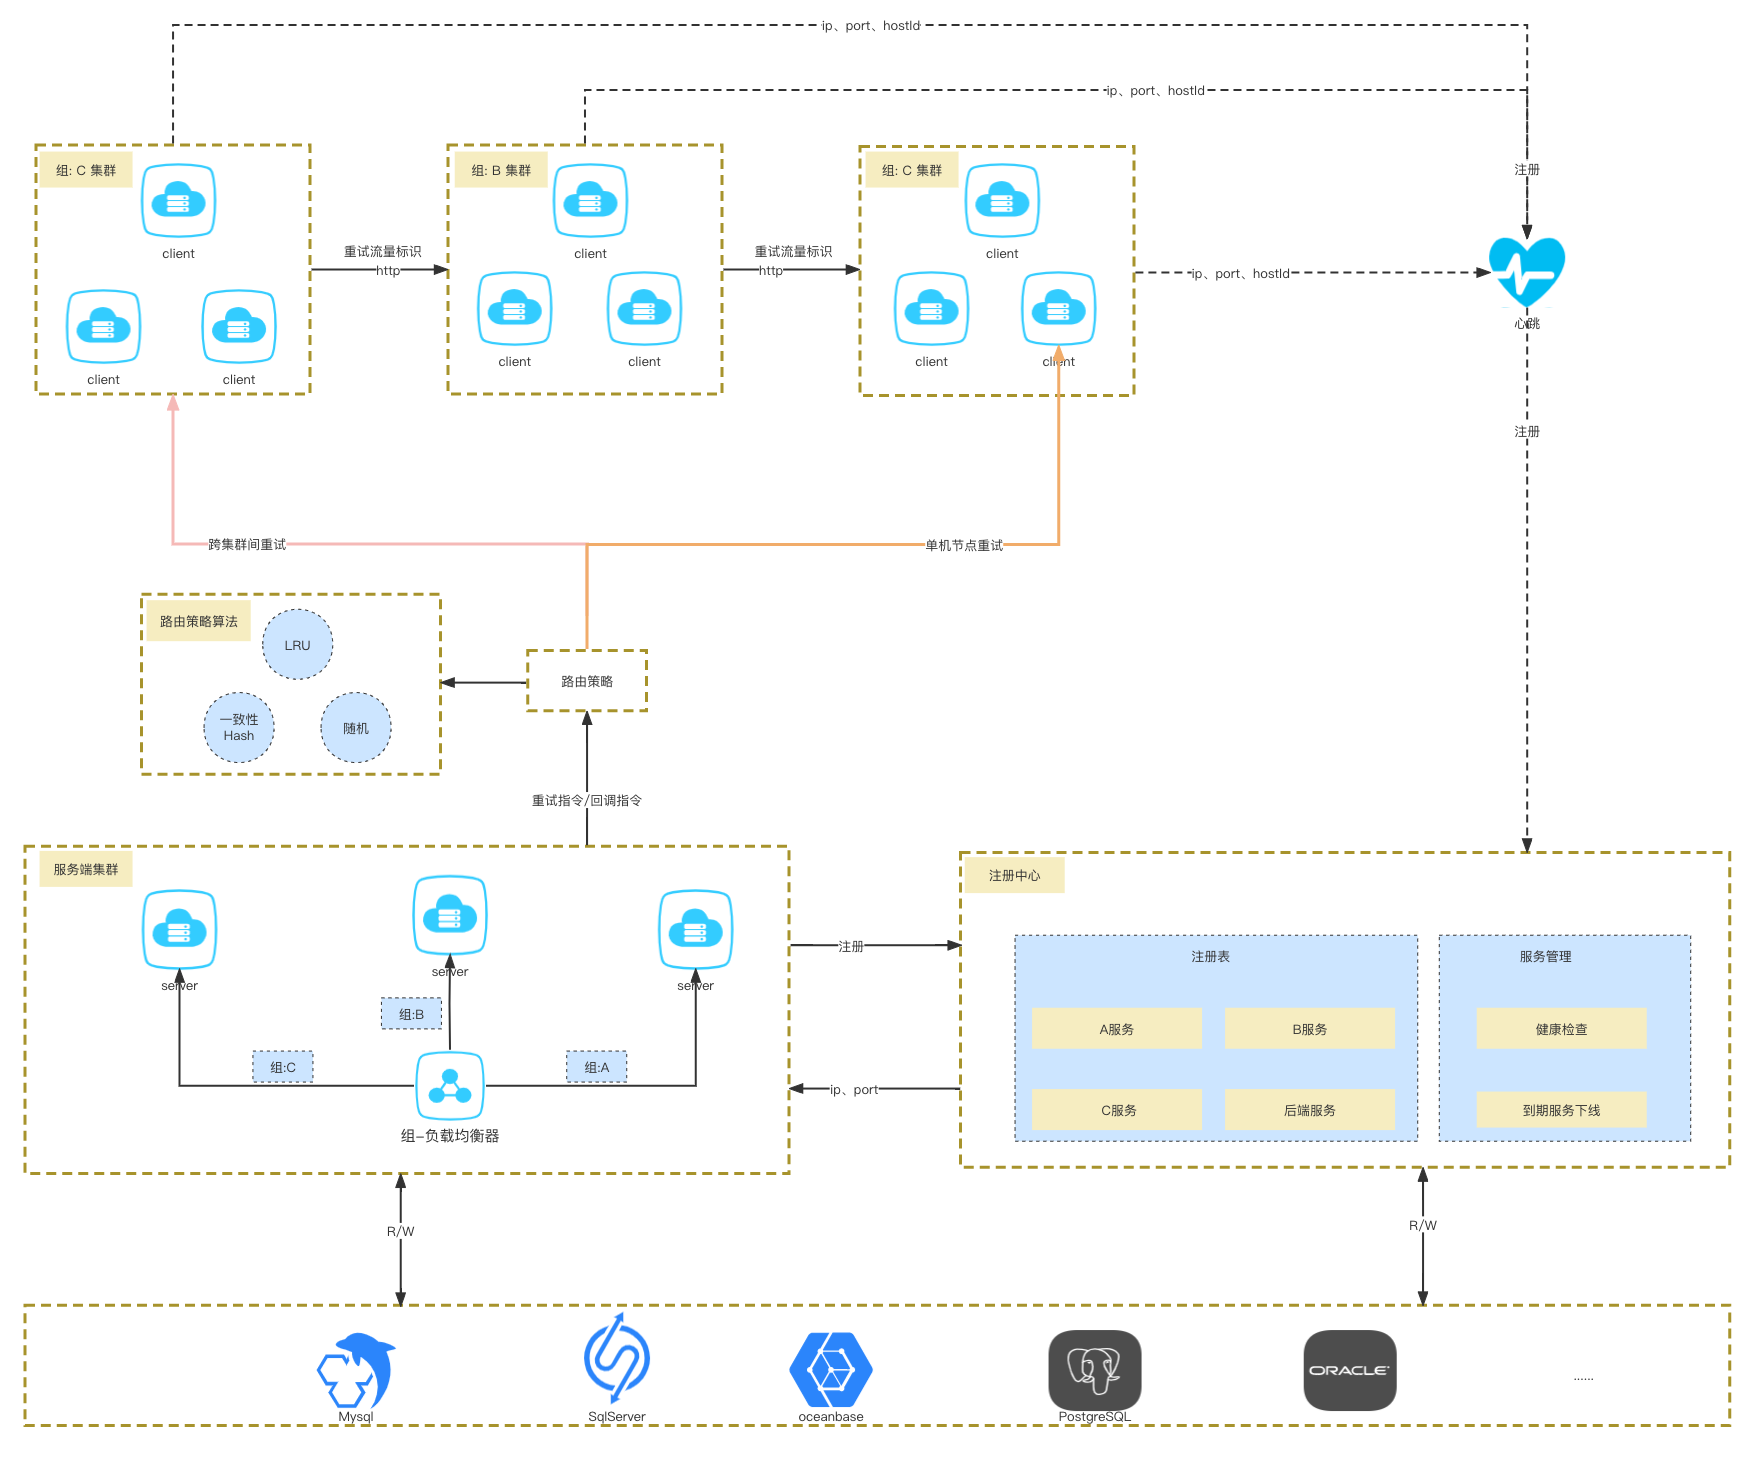
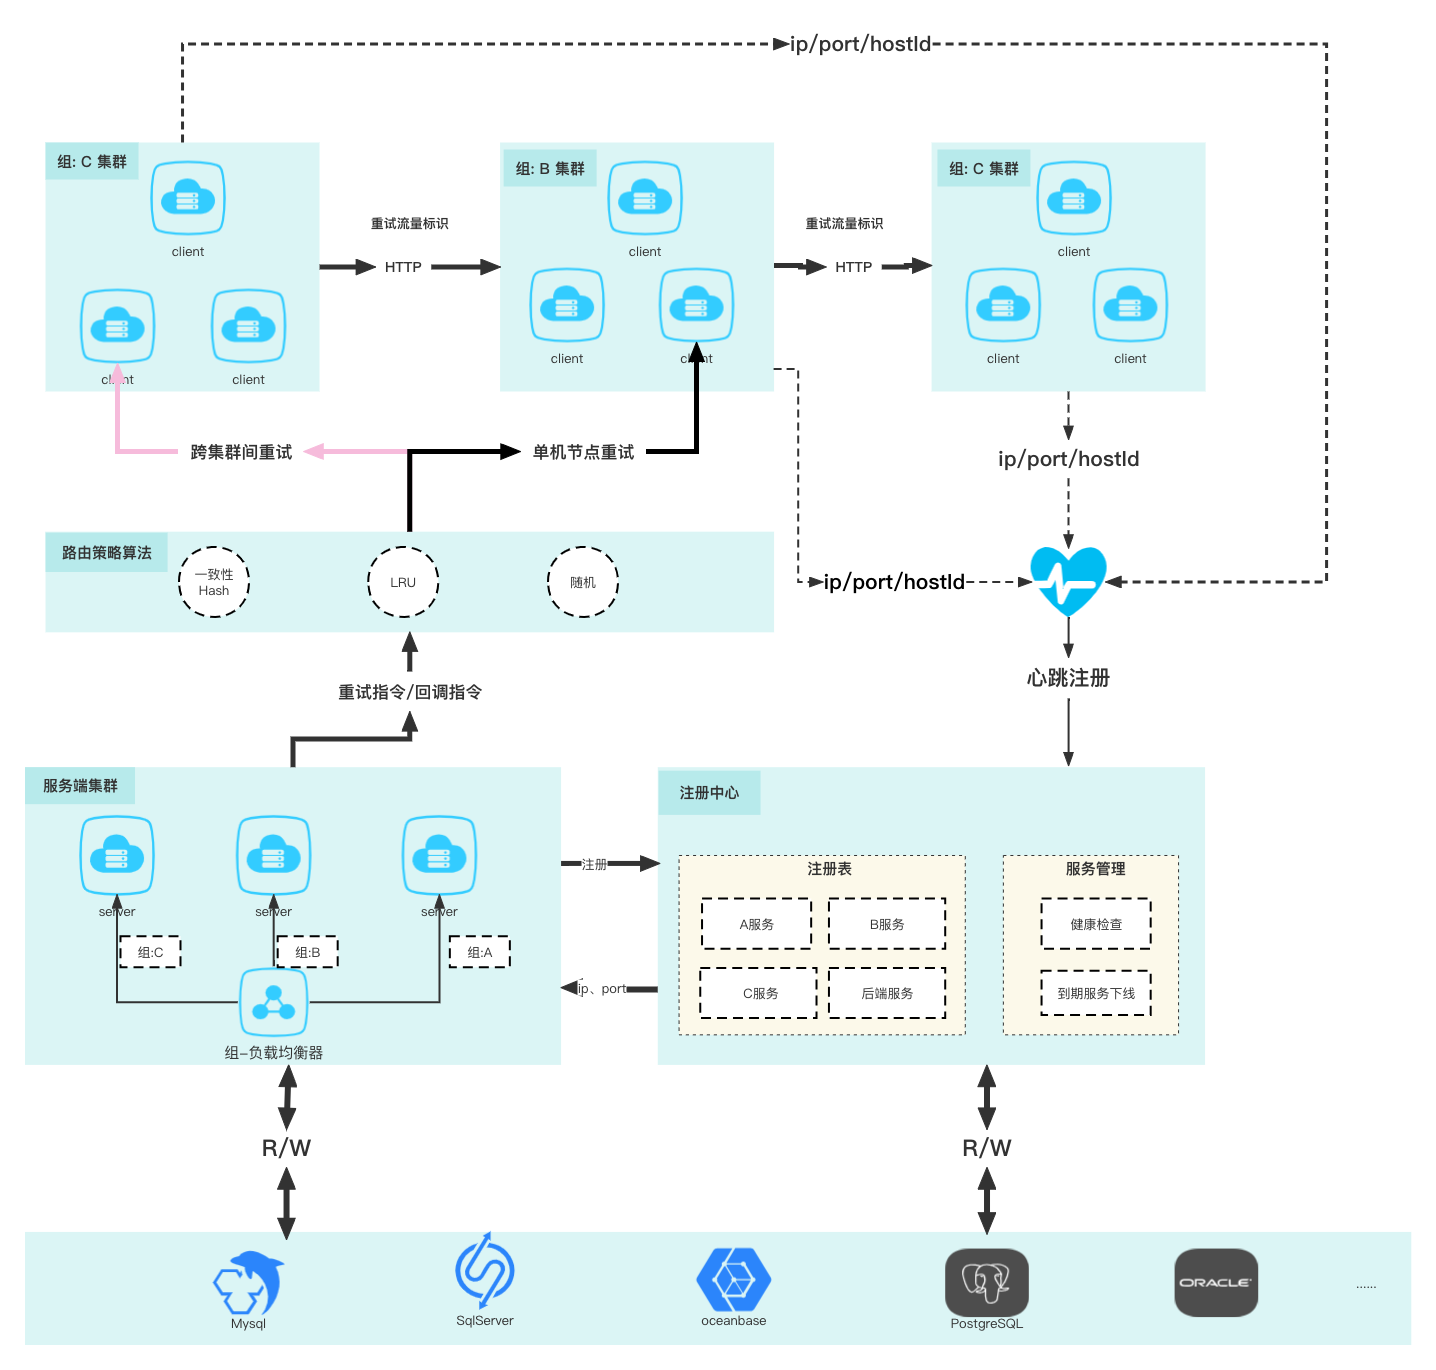
feat: 2.0.0 优化服务端功能设计

diff --git a/docs/.vuepress/components/EasyRetryIcon.vue b/docs/.vuepress/components/EasyRetryIcon.vue
@@ -5,7 +5,7 @@
 import { Icon } from 'ant-design-vue'
 
 const IconFont = Icon.createFromIconfontCN({
-  scriptUrl: '//at.alicdn.com/t/c/font_1460205_fpiqxgtegxj.js'
+  scriptUrl: '//at.alicdn.com/t/c/font_1460205_jrvo4b8i1gs.js'
 })
 export default {
   name: 'EasyRetryIcon',

diff --git a/docs/08.文档/02.v2.0.x文档/01.系统介绍/04.架构与功能.md b/docs/08.文档/02.v2.0.x文档/01.系统介绍/04.架构与功能.md
@@ -6,119 +6,154 @@ permalink: /pages/540554/
 
 
 # 系统架构及概念
-<img :src="$withBase('/img/系统架构图- 2.0.png')" class="no-zoom" style="zoom: 100%;">
+<img :src="$withBase('/img/系统架构图- 2.0.png')" class="no-zoom" style="zoom: 100%; border: 5px solid #99CCFF; ">
 
 
-# 客户端
+# <EasyRetryIcon iconType='icon-kehuduan'/>  客户端
 
-# 服务端
+# <EasyRetryIcon iconType='icon-a-fuwuduan1' />  服务端
 
 <img :src="$withBase('/img/系统功能架构图-v2.0.png')" class="no-zoom" style="zoom: 100%;">
 
-## 🔴任务调度
+## <EasyRetryIcon iconType='icon-renwutiaodu' /> 任务调度
 >Akka 是一个用于构建高并发、分布式和弹性系统的开源工具包和运行时环境。它是基于 Actor 模型的框架，提供了一种并发编程模型，可以轻松地处理并发任务和消息传递
 > 任务调度整体是基于AKKA实现全异步化流程
 
 下面是整个任务调度的数据和核心节点的流转图
-<img :src="$withBase('/img/任务调度数据流转图.png')" class="no-zoom" style="zoom: 100%;">
+<img :src="$withBase('/img/任务调度数据流转图.png')" class="no-zoom" style="zoom: 100%; border: 5px solid #99CCFF;">
 
+### <EasyRetryIcon iconType='icon-saomiaoqi' /> 任务扫描器(ScanGroupActor，ScanCallbackGroupActor)
+系统为每个组创建一个`ScanGroupActor`的扫描器并缓存到`CacheGroupScanActor`中，定时任务每10秒触发一次扫描任务，从`CacheGroupScanActor`通过groupName获取`ScanGroupActor`扫描所有任务。
+扫描结果通过`FilterStrategy`进行数据过滤同时为了避免任务重复执行，系统采用BitSet来进行幂等标记。最终只有符合执行条件的任务会通过AKKA的发布订阅模型发送消息。
 
-### 🟢任务扫描器(ScanGroupActor，ScanCallbackGroupActor)
-每个组都对应一个`ScanGroupActor`扫描器， 定时任务每10秒触发一次扫描任务，通过`ScanGroupActor`将所有任务扫描出来，通过`FilterStrategy`
-进行数据过滤，为防止任务重复执行使用`BitSet`进行幂等标记， 符合执行条件的任务通过AKKA的发布订阅模型发送消息。
+### <EasyRetryIcon iconType='icon-zhihangqi' /> 任务执行器(ExecUnitActor、ExecCallbackUnitActor)
+1. 任务执行器监听扫描器发送的消息，通过`RpcClient`向客户端回放重试流量或者执行回调；
+2. 通过控制台配置的退避策略执行`waitStrategy`计算下次执行时间, 若符合`stopStrategy`则执行具体的停止策略
+3. 同时需要记录任务的执行情况(成功或者失败)
+4. 删除幂等标记
+5. 记录日志信息
 
-### 🟢任务执行器(ExecUnitActor、ExecCallbackUnitActor)
-- 任务执行器监听扫描器发送的消息，通过`RpcClient`向客户端回放重试流量或者执行回调；
-- 通过控制台配置的退避策略执行`waitStrategy`计算下次执行时间, 若符合`stopStrategy`则执行具体的停止策略
-- 同时需要记录任务的执行情况(成功或者失败)，删除幂等标记。
+### 任务策略
+> 任务策略由过滤器策略、停止策略、等待策略组成采用责任链模式，按照`order`从小到大依次执行策略
 
-### 🟢任务策略
-> 任务策略采用责任链模式，按照`order`从小到大依次执行策略
-
-1. (过滤器策略)FilterStrategies
+#### 【过滤器策略】FilterStrategies
+   > 过滤不符合执行条件的任务, 比如未到达触发时间、无活跃的客户端等
    - TriggerAtFilterStrategies: 触发时间过滤策略
    - BitSetIdempotentFilterStrategies: BitSet幂等过滤策略
    - SceneBlackFilterStrategies: 场景黑名单策略
    - CheckAliveClientPodFilterStrategies: 存活的客户端过滤策略
    - RateLimiterFilterStrategies: 客户端限流过滤策略
    - ReBalanceFilterStrategies: 正在rebalance时不允许下发重试流量过滤策略
-2. (停止策略)StopStrategies
+#### 【停止策略】StopStrategies
+   > 判断任务是否需要终止，比如客户端返回SUCCESS或者STOP则需要停止重试、调用客户端发生异常则继续执行任务
    - ResultStatusStopStrategy: 调用客户端发生异常触发停止策略
    - ResultStatusCodeStopStrategy: 根据客户端返回状态判断是否终止重试
    - ExceptionStopStrategy: 根据客户端返回结果对象的状态码判断是否终止重试
-3. (等待策略)WaitStrategies
+#### 【等待策略】WaitStrategies
+> `DelayLevelWaitStrategy`是参考RocketMQ的`messageDelayLevel = "1s 5s 10s 30s 1m 2m 3m 4m 5m 6m 7m 8m 9m 10m 20m 30m 1h 2h";`设计
+> 相较于`messageDelayLevel` `DelayLevelWaitStrategy`支持更多的执行次数和更长的执行时间(see: `DelayLevelEnum`)
   - DelayLevelWaitStrategy: 延迟等级等待策略
   - FixedWaitStrategy: 固定定时间等待策略
   - CronWaitStrategy: cron等待策略
   - RandomWaitStrategy: 随机等待策略
+  - 待扩展......
 
-### 🟢执行结果处理器
-任务调度成功(FinishActor)
-`FinishActor`监听任务完成消息，
+###  执行结果处理器
+#### 任务调度成功(FinishActor)
+> `FinishActor`监听任务完成消息，
 - 若是重试任务完成需要创建一个回调任务，更新任务状态为已完成
 - 若是回调任务直接更新任务为已完成
 
-任务调度失败(FailureActor)
-`FailureActor`监听任务执行失败消息
+#### 任务调度失败(FailureActor)
+> `FailureActor`监听任务执行失败消息
 - 若是重试任务到达最大重试次数，则更新任务状态为最大次数并创建一个回调任务
 - 若是回调任务到达最大重试次数，则更新任务状态为最大次数
 
-## 🔴其他模块
-### 🟢组负载均衡器
-组负载均衡器通过一致性HASH算法将组均匀的分配到每个服务端节点上
+## 其他模块
+### <EasyRetryIcon iconType='icon-fuzaijunhengqi1' />  组负载均衡器
+<br />
+<img :src="$withBase('/img/组负载均衡器.png')" class="no-zoom" style="zoom: 100%;border: 5px solid #99CCFF;">
+
+> 组负载均衡器通过一致性HASH算法将组均匀的分配到每个服务端节点上
+
 以下是触发组负载均衡器ReBalance的条件
 - 若本地缓存节点为空则触发ReBalance
 - 若远程的节点与本地缓存节点数量不一致则触发ReBalance
 - 若远程的节点与本地缓存节点hostId不匹配则触发ReBalance
 - 若组远程的组数量与本地缓存的组数量不一致则触发触发ReBalance
 
-### 🟢配置中心
-- 配置管理
-  通过控制台进行组、场景、通知配置
-- 配置通知
-  - 服务端主动感知版本变更: 控制台变更配置时版本号会自增，此次会通知客户端配置变更
-  - 客户端携带版本号: 客户端每次请求服务端都会携带版本号与服务端校验版本是否一致
-  当版本发生变化时，以轮询方式通知客户端变更配置
+### <EasyRetryIcon iconType='icon-tongxinmokuai' />  配置中心
+#### 配置管理
+> 通过控制台进行组、场景、通知配置, 其中组不支持默认初始化，接入时需手动新增组配置
+- 组名称: 名称是数字、字母、下划线组合，最长64个字符长度
+- 状态: 开启/关闭, 通过状态开启或关闭组状态
+- 路由策略: 随机算法、一致性hash算法、最近最久未使用算法
+- 描述: 对组进行描述
+- 指定分区: 不指定则系统随机分区，指定则使用指定的分区(若系统没创建对应的表则会保存失败)
+- Id生成模式: 支持雪花算法和号段模式
+- 初始化场景: 【是】: 当未查询到场景时默认生成一个场景(退避策略: 等级策略, 最大重试次数: 21); 【否】: 新增场景时必须先配置场景
+#### 配置通知
+> 推、拉结合的模式保障配置变更时，能及时通知客户端
 
-### 🟢注册中心
-#### 🟡注册
-  - 客户端使用Netty的心跳(30s一次)与服务端保持连接，每次心跳都会将任务放到本地队列中有定时任务获取队列信息更新过期时间
-  - 服务端使用定时(30s一次)任务定时更新过期时间
-#### 🟡过期下线
-  - 删除到达过期时间的节点
-### 🟢全局id生成器
-号段模式: 号段模式使用自美团的leaf号段模式
+-【推】服务端主动感知版本变更: 控制台变更配置时版本号会自增，此次会以轮询的方式通知客户端配置变更
+-【拉】客户端主动同步配置: 客户端每次请求服务端都会携带版本号与服务端校验版本是否一致，若不一致则返回最新版本
+
+### <EasyRetryIcon iconType='icon-zhucezhongxin1' />  注册中心
+####  注册阶段
+  - 心跳注册: 客户端使用Netty的心跳(30s一次)与服务端保持连接，每次心跳都会将任务放到本地队列中有定时任务获取队列信息更新过期时间
+  - 定时任务注册: 服务端使用定时(30s一次)任务定时注册
+####  过期下线
+- 定时扫描到达过期时间的客户端、服务端节点
+- 删除到期的客户端、服务端节点
+
+###  全局id生成器
+号段模式: 采用业界成熟的[美团开源的分布式ID生成器(leaf)](https://github.com/Meituan-Dianping/Leaf/blob/master/leaf-core/src/main/java/com/sankuai/inf/leaf/segment/SegmentIDGenImpl.java)的号段模式 <br />
 雪花算法: 使用hutool自带的雪花算法生成id，若出现时间回拨问题则直接报错
-### 🟢日志模块
+
+### <EasyRetryIcon iconType='icon-icon-rizhi' />  日志模块
 日志分为`retry_task_log`和`retry_task_log_message`表
 - `retry_task_log`表主要是存放任务的主要信息包括 unique_id、group_name、scene_name、idempotent_id、retry_status等
 - `retry_task_log_message`表存放每次调度产生的结果信息
-### 🟢告警通知
+###  告警通知
 > 目前已支持钉钉通知、邮箱通知、飞书通知
-- 通知场景:
-    - 重试数量超过阈值: 作用于服务端，重试中的数量到达阈值发送通知
-    - 重试失败数量超过阈值: 作用于服务端，达到最大重试次数的数量到达阈值发送通知
-    - 客户端上报失败: 作用于客户端，上报数据失败 发送 通知
-## 🔴通信模块
-### 🟡RpcClint
+#### 通知场景:
+- 重试数量超过阈值: 作用于服务端，重试中的数量到达阈值发送通知
+- 重试失败数量超过阈值: 作用于服务端，达到最大重试次数的数量到达阈值发送通知
+- 客户端上报失败: 作用于客户端，上报数据失败 发送 通知
+## <EasyRetryIcon iconType='icon-tongxinmokuai' />   通信模块
+### RpcClint
 > RpcClint是通过动态代理实现的可以基于配置的路由策略选取可执行的客户端IP+PORT, 并支持路由剔除和路由转移功能
 
-- 客户端路由策略算法
-  - 一致性Hash算法
-  - LRU算法
-  - 随机算法
+#### 客户端路由策略算法
+- 一致性Hash算法
+- LRU算法
+- 随机算法
 
-- 路由剔除:
-  当调用客户端时出现网络异常时，自动剔除当前活跃列表中的路由信息(IP+PORT)
-- 路由转移:
-  重新在活跃列表中选取一个路由信息，调用客户端
+#### 路由剔除:
+  当调用客户端时出现网络异常时，自动剔除当前活跃列表中的下线的路由信息(IP+PORT), 并通过`路由转移`功能选取一个活跃的节点，从而提高了调用的可达性
+#### 路由转移:
+  重新在缓存的活跃列表中选取一个路由信息
 
-### 🟡NettyServer
-> 处理客户端请求
+### NettyServer
+> 接收的客户端请求，并通过策略模式执行具体的操作
 
 - BeatHttpRequestHandler(/beat)
-  接收心跳请求，存储到本地队列
+  - 接收心跳请求
+  - 将客户端携带的版本号信息存储到版本同步处理器的本地队列
+  - 检查版本是否一致，若不一致则向客户端推送最新配置
+  - 客户端缓存最新配置
 - ConfigHttpRequestHandler(/config)
-  获取最新的配置信息
+  - 客户端启动的时候，主动拉取最新配置
+  - 客户端缓存最新配置
 - ReportRetryInfoHttpRequestHandler(/batch/report)
-  接受并处理上报的信息
+  - 接受客户端上报的信息
+  - 判断组是否存在，不存在则抛出异常 `failed to report data, no group configuration found.`
+  - 场景检查
+    - 若初始化场景配置为【是】，则不存在场景时则自动生成一个退避策略为延迟等级、最大重试次数为21的场景配置
+    - 若初始化场景配置为【否】，则不存在场景时则抛出异常 `failed to report data, no scene configuration found.`
+  - 幂等检查
+    - 若存在幂等号、组、场景相等且是重试中的数据，则直接返回上报成功
+  - 生成触发时间
+    - 通过随机等待策略【`RandomWaitStrategy`】的生成一个60秒内的随时时间
+  - 创建任务
+  - 初始化日志信息
